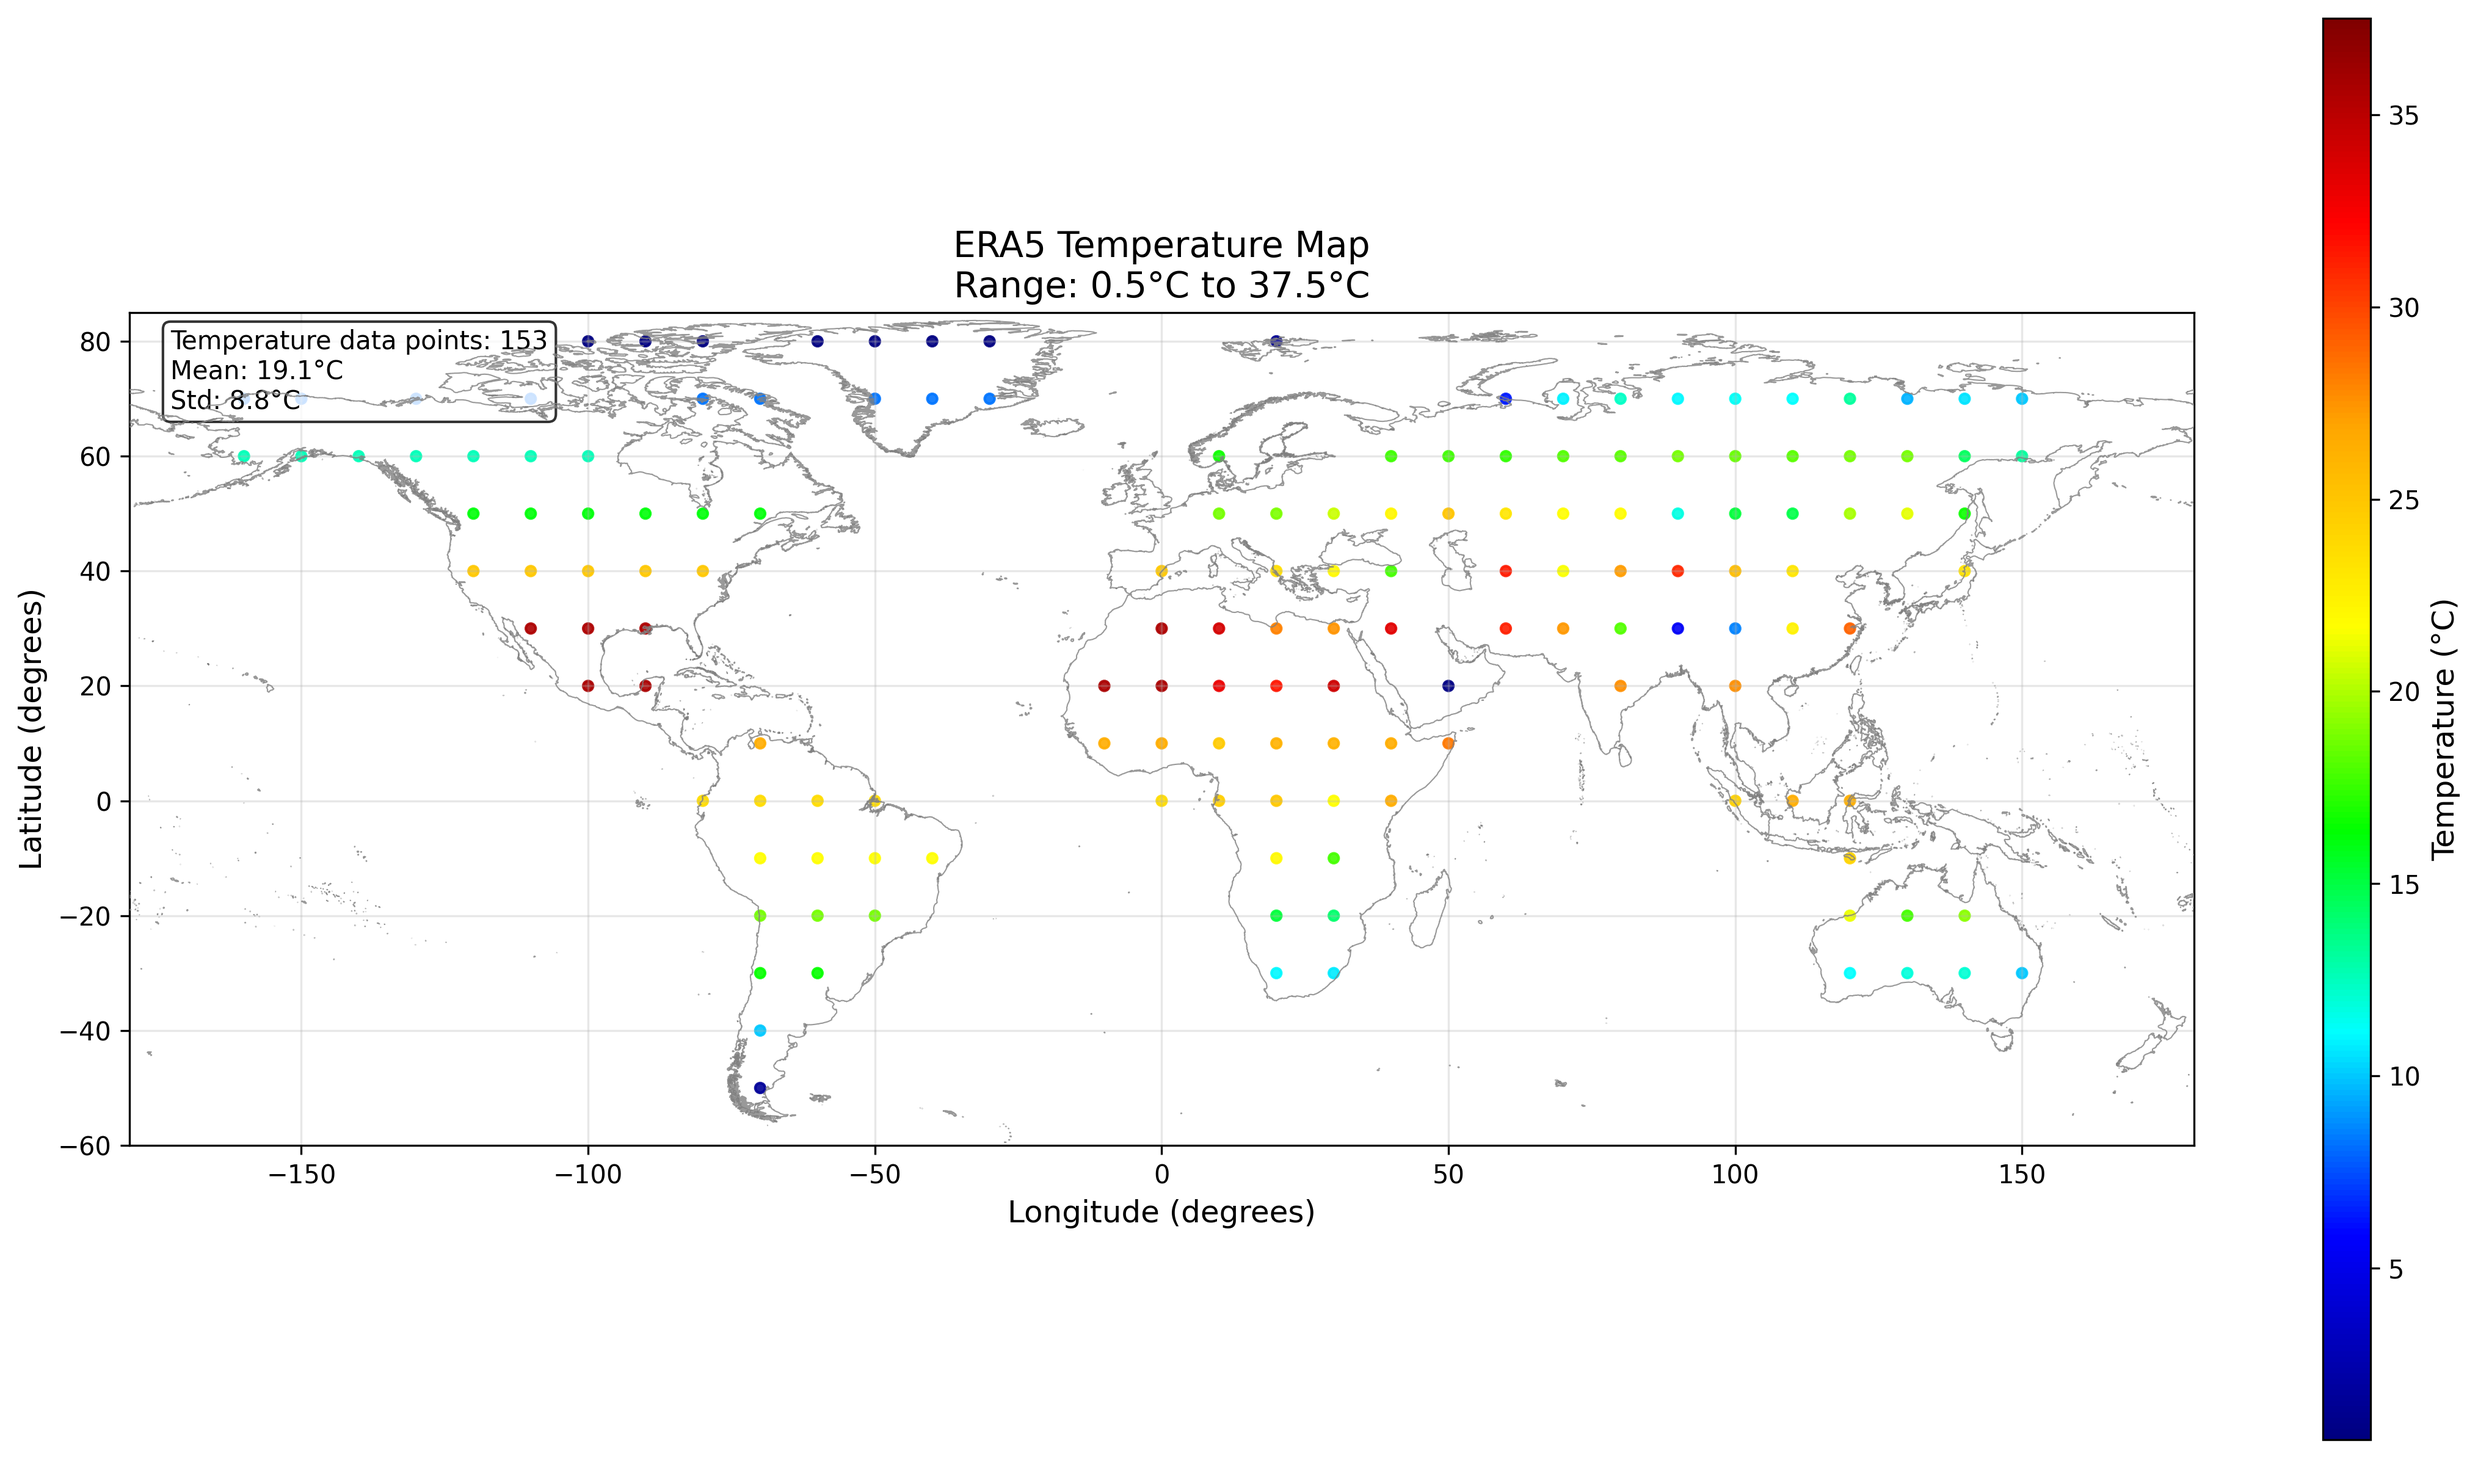
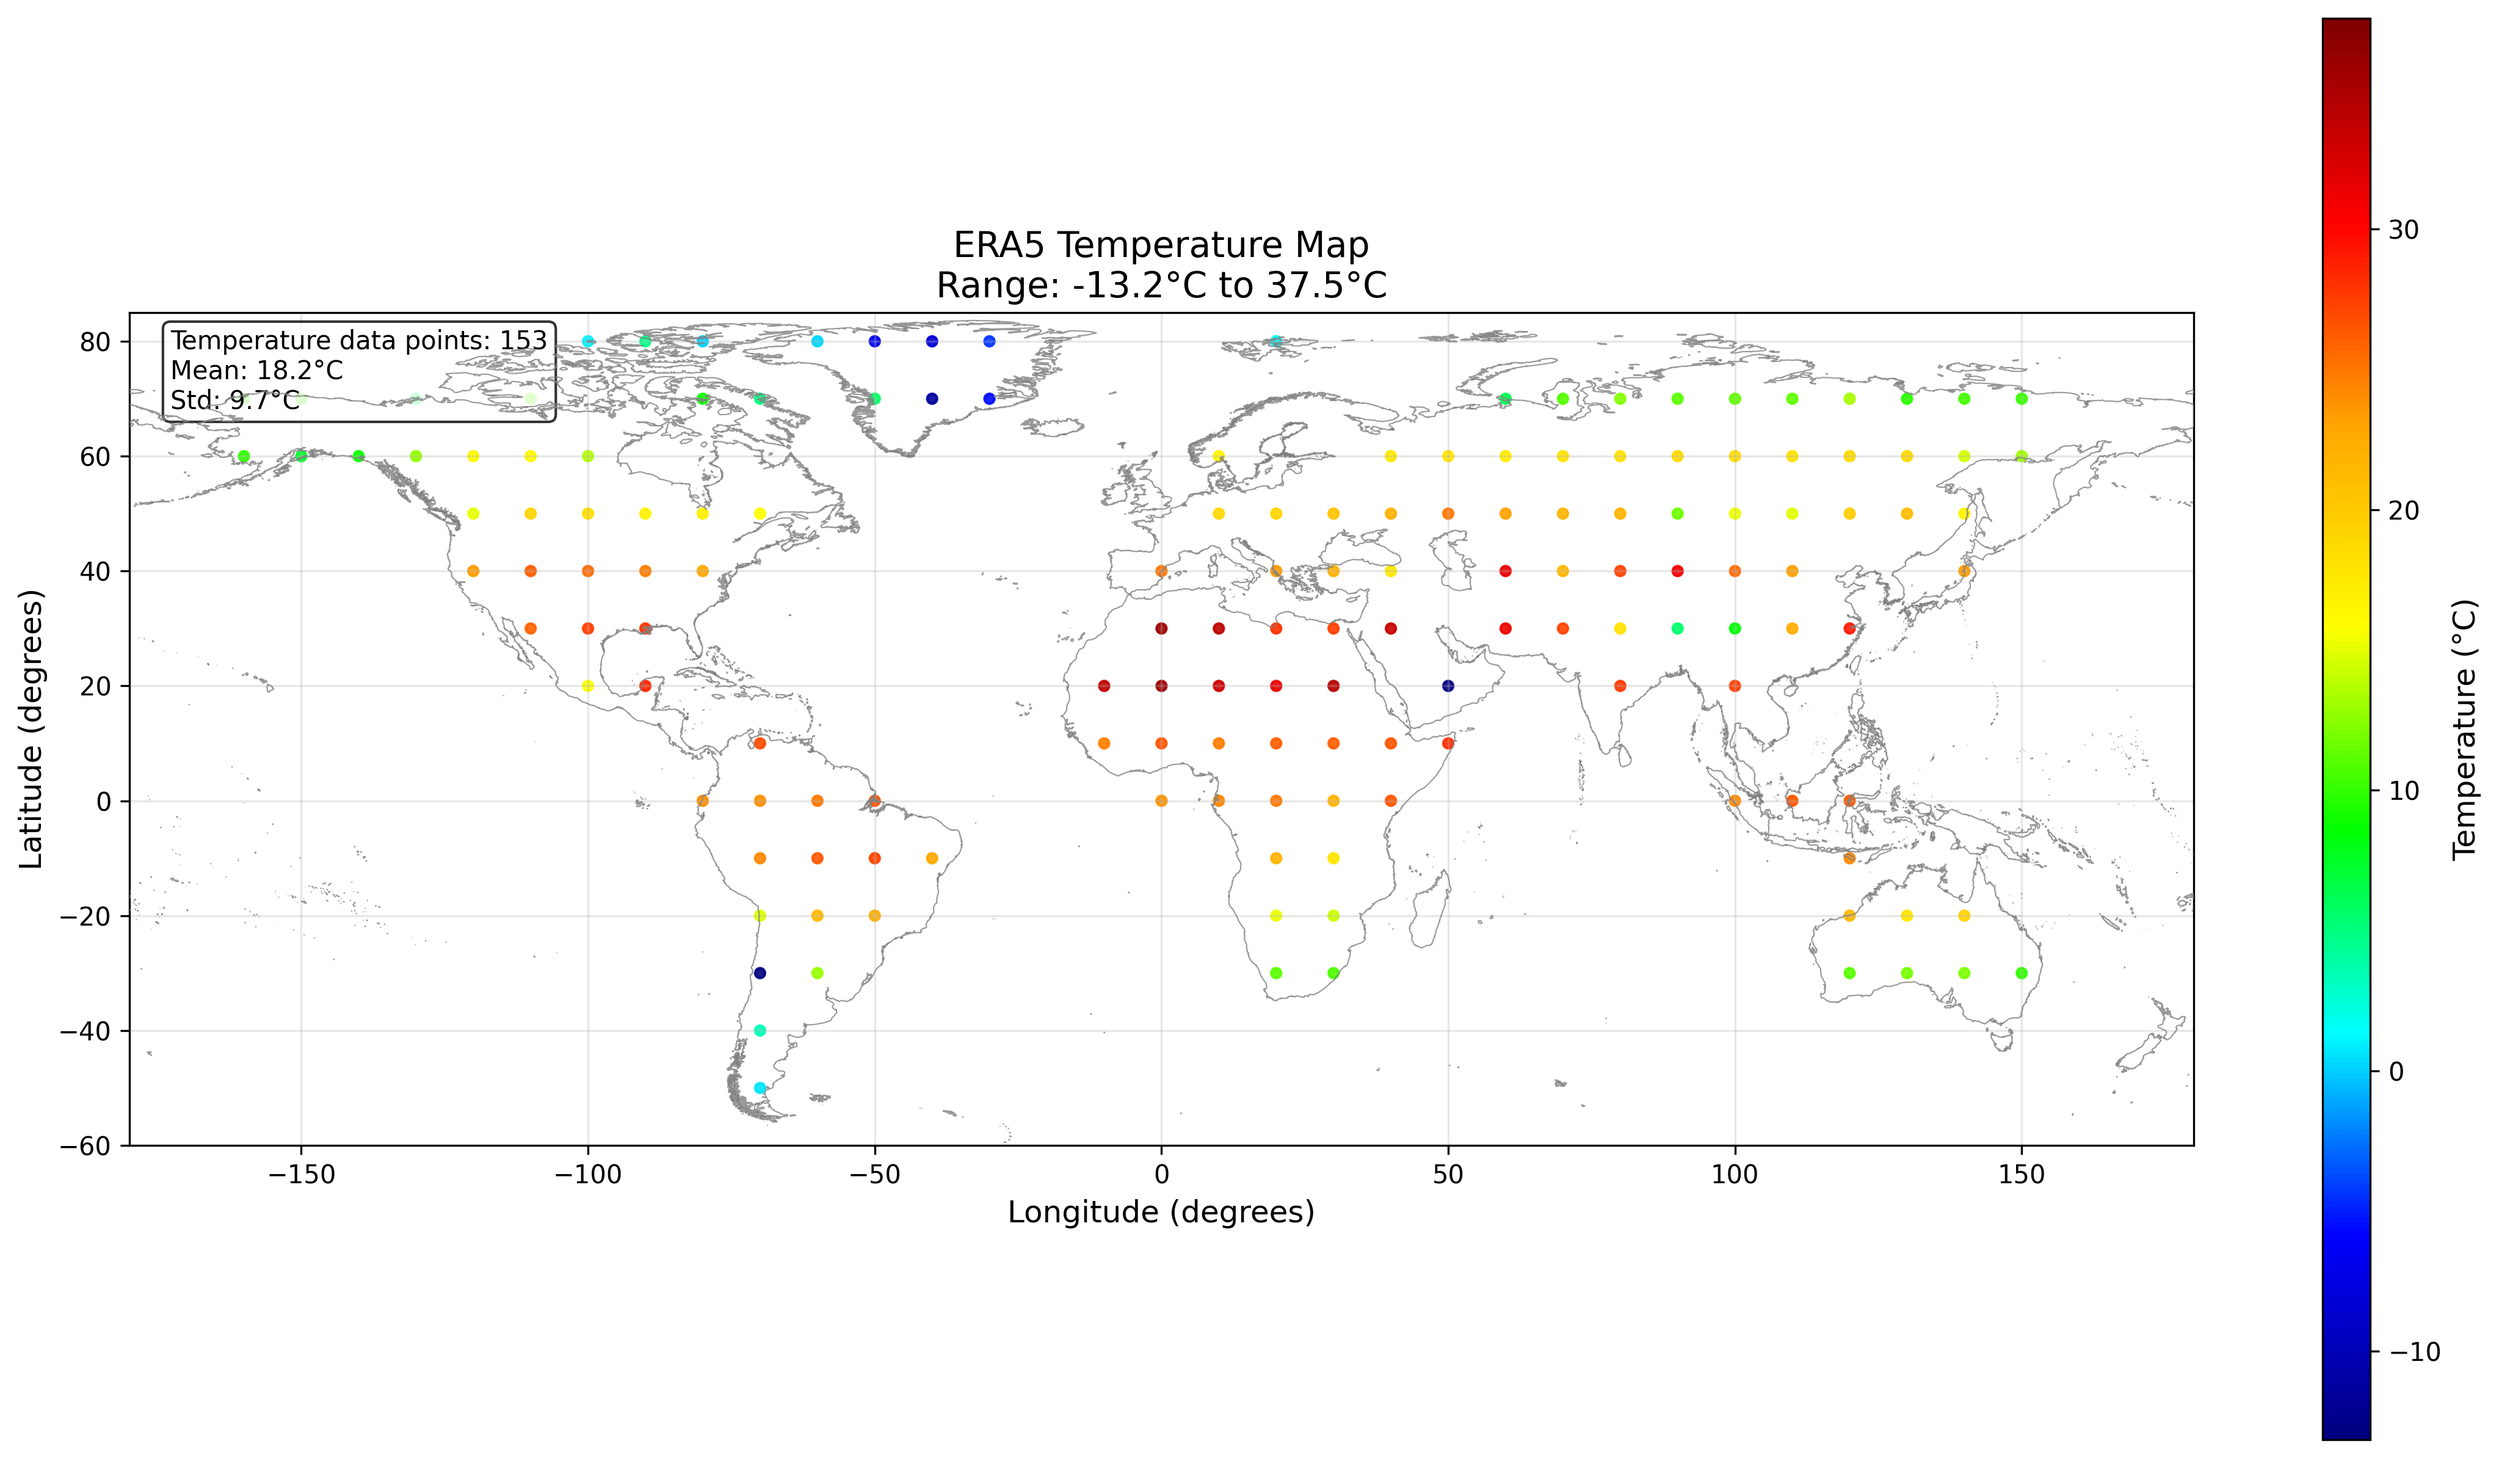
fix 360 degreee bag

diff --git a/climate_llm_benchmark.py b/climate_llm_benchmark.py
@@ -7,6 +7,7 @@ from geo_mesh_processor import load_mesh_data
 
 from langchain_openai import ChatOpenAI
 from langchain.prompts import ChatPromptTemplate
+import glob
 
 def configure_langsmith(disable_tracing: bool = False):
     """Configure LangSmith tracing"""
@@ -19,6 +20,63 @@ def configure_langsmith(disable_tracing: bool = False):
             pass  # LangSmith not installed, ignore
     else:
         print("LangSmith tracing enabled (default)")
+
+def find_latest_intermediate_file(resolution: str, simple_mode: bool = False) -> Optional[str]:
+    """Find the latest intermediate file for resuming"""
+    mode_suffix = "_simple" if simple_mode else ""
+    pattern = f"results/climate_results_intermediate_*{mode_suffix}.json"
+    
+    # Find all matching intermediate files
+    intermediate_files = glob.glob(pattern)
+    
+    if not intermediate_files:
+        return None
+    
+    # Extract numbers and sort to find the latest
+    file_numbers = []
+    for file_path in intermediate_files:
+        try:
+            # Extract number from filename like "climate_results_intermediate_1840_simple.json"
+            filename = Path(file_path).stem
+            if simple_mode:
+                number_part = filename.replace("climate_results_intermediate_", "").replace("_simple", "")
+            else:
+                number_part = filename.replace("climate_results_intermediate_", "")
+            
+            number = int(number_part)
+            file_numbers.append((number, file_path))
+        except ValueError:
+            continue
+    
+    if not file_numbers:
+        return None
+    
+    # Sort by number and return the path of the latest file
+    file_numbers.sort(key=lambda x: x[0], reverse=True)
+    latest_file = file_numbers[0][1]
+    
+    return latest_file
+
+def load_intermediate_results(intermediate_file: str) -> tuple[List[Dict], Dict, int]:
+    """Load intermediate results and return results, mesh_data, and start_index"""
+    print(f"Loading intermediate results from {intermediate_file}...")
+    
+    with open(intermediate_file, 'r') as f:
+        data = json.load(f)
+    
+    results = data['results']
+    
+    # Reconstruct mesh_data from the saved data
+    mesh_data = {
+        'mesh_info': data['mesh_info'],
+        'resolution': data['resolution'],
+        'mesh_points': []  # Will be loaded from the original mesh file
+    }
+    
+    start_index = len(results)
+    print(f"Found {start_index} completed points, resuming from point {start_index + 1}")
+    
+    return results, mesh_data, start_index
 
 def initialize_llm(model_name="gpt-5-nano", temperature=0, simple_mode=False):
     """Initialize OpenAI LLM with LangChain"""
@@ -309,7 +367,7 @@ def query_climate_data_batch(llm, prompt_template, point_data: Dict, num_repeats
     print(f"  ✓ Batch completed: {successful_responses}/{num_repeats} successful responses")
     return processed_results
 
-def process_climate_benchmark(mesh_file: str, num_repeats: int = 10, model_name: str = "gpt-5-nano", simple_mode: bool = False, month: str = "July", use_batch: bool = True, disable_tracing: bool = False):
+def process_climate_benchmark(mesh_file: str, num_repeats: int = 10, model_name: str = "gpt-5-nano", simple_mode: bool = False, month: str = "July", use_batch: bool = True, disable_tracing: bool = False, resume: bool = False):
     """Main function to process climate benchmark"""
     
     # Configure LangSmith tracing
@@ -331,6 +389,21 @@ def process_climate_benchmark(mesh_file: str, num_repeats: int = 10, model_name:
     land_points = [point for point in mesh_points if point['is_land']]
     print(f"Found {len(land_points)} land points")
     
+    # Check for resuming from intermediate file
+    results = []
+    start_index = 0
+    
+    if resume:
+        latest_file = find_latest_intermediate_file(resolution, simple_mode)
+        if latest_file:
+            results, saved_mesh_data, start_index = load_intermediate_results(latest_file)
+            print(f"Resuming from intermediate file: {latest_file}")
+            print(f"Will continue from land point {start_index + 1}/{len(land_points)}")
+        else:
+            print("No intermediate files found, starting from beginning")
+    else:
+        print("Starting fresh processing")
+    
     # Initialize LLM
     print(f"Initializing LLM: {model_name}")
     if simple_mode:
@@ -338,10 +411,9 @@ def process_climate_benchmark(mesh_file: str, num_repeats: int = 10, model_name:
     llm = initialize_llm(model_name, simple_mode=simple_mode)
     prompt_template = create_climate_prompt(simple_mode, month)
     
-    # Process each land point
-    results = []
+    # Process each land point (starting from start_index if resuming)
     
-    for i, point_data in enumerate(land_points):
+    for i, point_data in enumerate(land_points[start_index:], start=start_index):
         print(f"\nProcessing land point {i+1}/{len(land_points)}: ({point_data['lat']:.1f}, {point_data['lon']:.1f})")
         if point_data.get('country'):
             print(f"  Location: {point_data['country']}, {point_data.get('state', 'N/A')}, {point_data.get('city', 'N/A')}")
@@ -420,6 +492,7 @@ def main():
     month = "July"
     use_batch = True
     disable_tracing = False
+    resume = False
     
     if len(sys.argv) > 1:
         mesh_file = sys.argv[1]
@@ -447,6 +520,12 @@ def main():
             disable_tracing = True
         elif arg7 in ['false', '0', 'no', 'enable', 'trace']:
             disable_tracing = False
+    if len(sys.argv) > 8:
+        arg8 = sys.argv[8].lower()
+        if arg8 in ['true', '1', 'yes', 'resume']:
+            resume = True
+        elif arg8 in ['false', '0', 'no', 'fresh']:
+            resume = False
     
     print(f"Climate LLM Benchmark")
     print(f"Mesh file: {mesh_file}")
@@ -455,6 +534,7 @@ def main():
     print(f"Mode: {f'Simple ({month} temp only)' if simple_mode else 'Full (all months)'}")
     print(f"Processing: {'Batch' if use_batch else 'Individual'}")
     print(f"LangSmith tracing: {'Disabled' if disable_tracing else 'Enabled'}")
+    print(f"Resume mode: {'Enabled' if resume else 'Disabled'}")
     
     # Check if mesh file exists
     if not Path(mesh_file).exists():
@@ -464,7 +544,7 @@ def main():
     
     try:
         # Process the benchmark
-        results, mesh_data = process_climate_benchmark(mesh_file, num_repeats, model_name, simple_mode, month, use_batch, disable_tracing)
+        results, mesh_data = process_climate_benchmark(mesh_file, num_repeats, model_name, simple_mode, month, use_batch, disable_tracing, resume)
         
         # Save final results
         resolution = mesh_data['resolution']

diff --git a/compare_llm_era5.py b/compare_llm_era5.py
@@ -78,8 +78,11 @@ def extract_era5_climatology(climatology_file, coordinates, month):
     
     for lat, lon in coordinates:
         try:
+            # Convert longitude from -180-180 to 0-360 if needed
+            era5_lon = lon if lon >= 0 else lon + 360
+            
             # Select nearest grid point
-            point_data = ds.sel(latitude=lat, longitude=lon, month=month_num, method='nearest')
+            point_data = ds.sel(latitude=lat, longitude=era5_lon, month=month_num, method='nearest')
             
             era5_data.append({
                 'era5_temp_mean': float(point_data['t2m_mean'].values),
